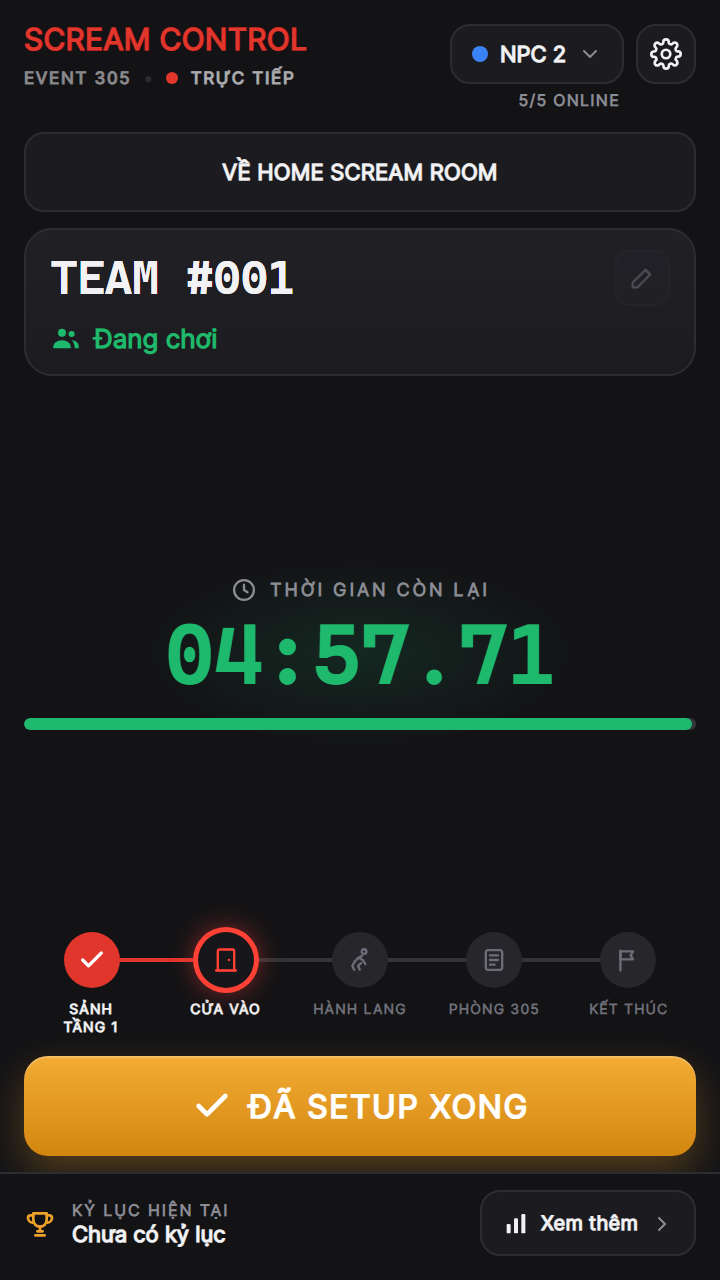
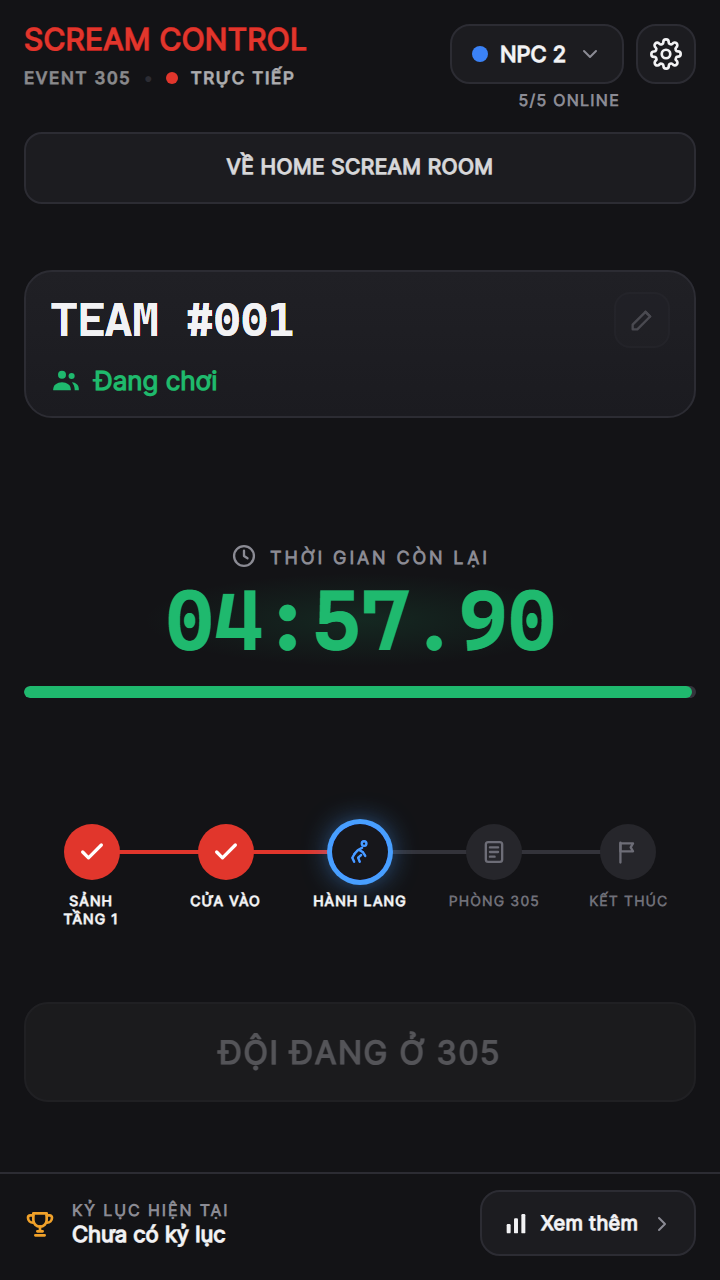
Balance the operator dashboard's vertical rhythm
Share the spare height across the column gaps instead of one flexible clock band, which pooled roughly 160px of dead space above and below the digits; cap the stage at clamp(120px, 20vh, 180px) and drop the 176/96px min-heights.

Keep the primary action and the GATE clock controls in one group so the distribution never splits them, and slim the VE HOME SCREAM ROOM escape row. Regenerate the dashboard previews from the new scripts/preview.mjs.

diff --git a/src/ui/Dashboard.tsx b/src/ui/Dashboard.tsx
@@ -241,7 +241,7 @@ export function Dashboard({ store, account, onLogout }: Props) {
 
       <ReturnHome onLogout={onLogout} />
 
-      <main className="flex min-h-0 flex-1 flex-col gap-2.5 overflow-y-auto px-3 pb-2">
+      <main className="flex min-h-0 flex-1 flex-col justify-evenly gap-2.5 overflow-y-auto px-3 pb-2">
         {/* --------------------------------------------------------- team card */}
         <section className="card tm-card" data-testid="active-team">
           <div className="flex items-center justify-between gap-2">
@@ -316,8 +316,8 @@ export function Dashboard({ store, account, onLogout }: Props) {
         </section>
 
         {/* --------------------------------------------------------------- hero */}
-        {/* The clock is the one block that grows with the screen: the halo keeps the
-            middle of a tall phone from reading as leftover space. */}
+        {/* The clock grows into the spare height, but only up to its cap: the rest
+            is shared by every gap, so no band turns into a dead hole around it. */}
         <section className="hero-block relative isolate flex flex-1 flex-col items-center justify-center py-2" data-testid="hero">
           <span
             className="hero-aura -z-10"
@@ -379,18 +379,20 @@ export function Dashboard({ store, account, onLogout }: Props) {
           </p>
         )}
 
-        <PrimaryZone
-          store={store}
-          account={account}
-          primary={primary}
-          pending={state.pending}
-          verifying={state.verifying}
-          draftName={teamName}
-        />
+        <div className="flex flex-col gap-2.5">
+          <PrimaryZone
+            store={store}
+            account={account}
+            primary={primary}
+            pending={state.pending}
+            verifying={state.verifying}
+            draftName={teamName}
+          />
 
-        {round && round.game_started_at !== null && round.game_stopped_at === null && (account.role === 'GATE' || account.role === 'SUPERVISOR') && (
-          <ClockControls store={store} round={round} pending={state.pending} />
-        )}
+          {round && round.game_started_at !== null && round.game_stopped_at === null && (account.role === 'GATE' || account.role === 'SUPERVISOR') && (
+            <ClockControls store={store} round={round} pending={state.pending} />
+          )}
+        </div>
       </main>
 
       {/* -------------------------------------------------------------- footer */}
@@ -454,9 +456,9 @@ function ReturnHome({ onLogout }: { onLogout(): Promise<void> }) {
     catch { setError(true); }
     finally { setBusy(false); }
   };
-  return <div className="px-3 pb-2 text-center">
+  return <div className="px-3 pb-1.5 text-center">
     <button type="button" onClick={() => void leave()} disabled={busy}
-      className="min-h-10 w-full rounded-[10px] border border-hair bg-panel px-3 py-2 text-[11px] font-semibold text-snow disabled:opacity-50"
+      className="min-h-9 w-full rounded-[9px] border border-hair bg-panel px-3 py-1.5 text-[10.5px] font-semibold tracking-[0.02em] text-snow/90 disabled:opacity-50"
       data-testid="return-home">{busy ? 'ĐANG NHẢ VỊ TRÍ…' : 'VỀ HOME SCREAM ROOM'}</button>
     {error ? <p role="alert" className="mt-1 text-[11px] text-ember" data-testid="release-error">
       Chưa nhả được vị trí. Kiểm tra kết nối và bấm lại.

diff --git a/src/index.css b/src/index.css
@@ -150,12 +150,15 @@
   padding: 13px 12px;
 }
 
+/* The stage is the one block that grows with the screen, but only up to a fifth
+   of the height: the clock keeps breathing room, and the rest of the spare
+   height is shared by the whole column instead of pooling in one band. */
 .hero-block {
-  min-height: 176px;
+  max-height: clamp(120px, 20vh, 180px);
 }
 
-/* A halo in the clock's own colour, so the tall middle of the phone reads as a
-   stage around the digits instead of leftover space. */
+/* A halo in the clock's own colour, so the digits sit on a lit stage rather
+   than on flat background. */
 .hero-aura {
   position: absolute;
   inset: 0;
@@ -175,10 +178,6 @@
 @media (max-height: 700px) {
   .tm-card {
     padding: 10px 12px;
-  }
-
-  .hero-block {
-    min-height: 96px;
   }
 
   .team-digits {
